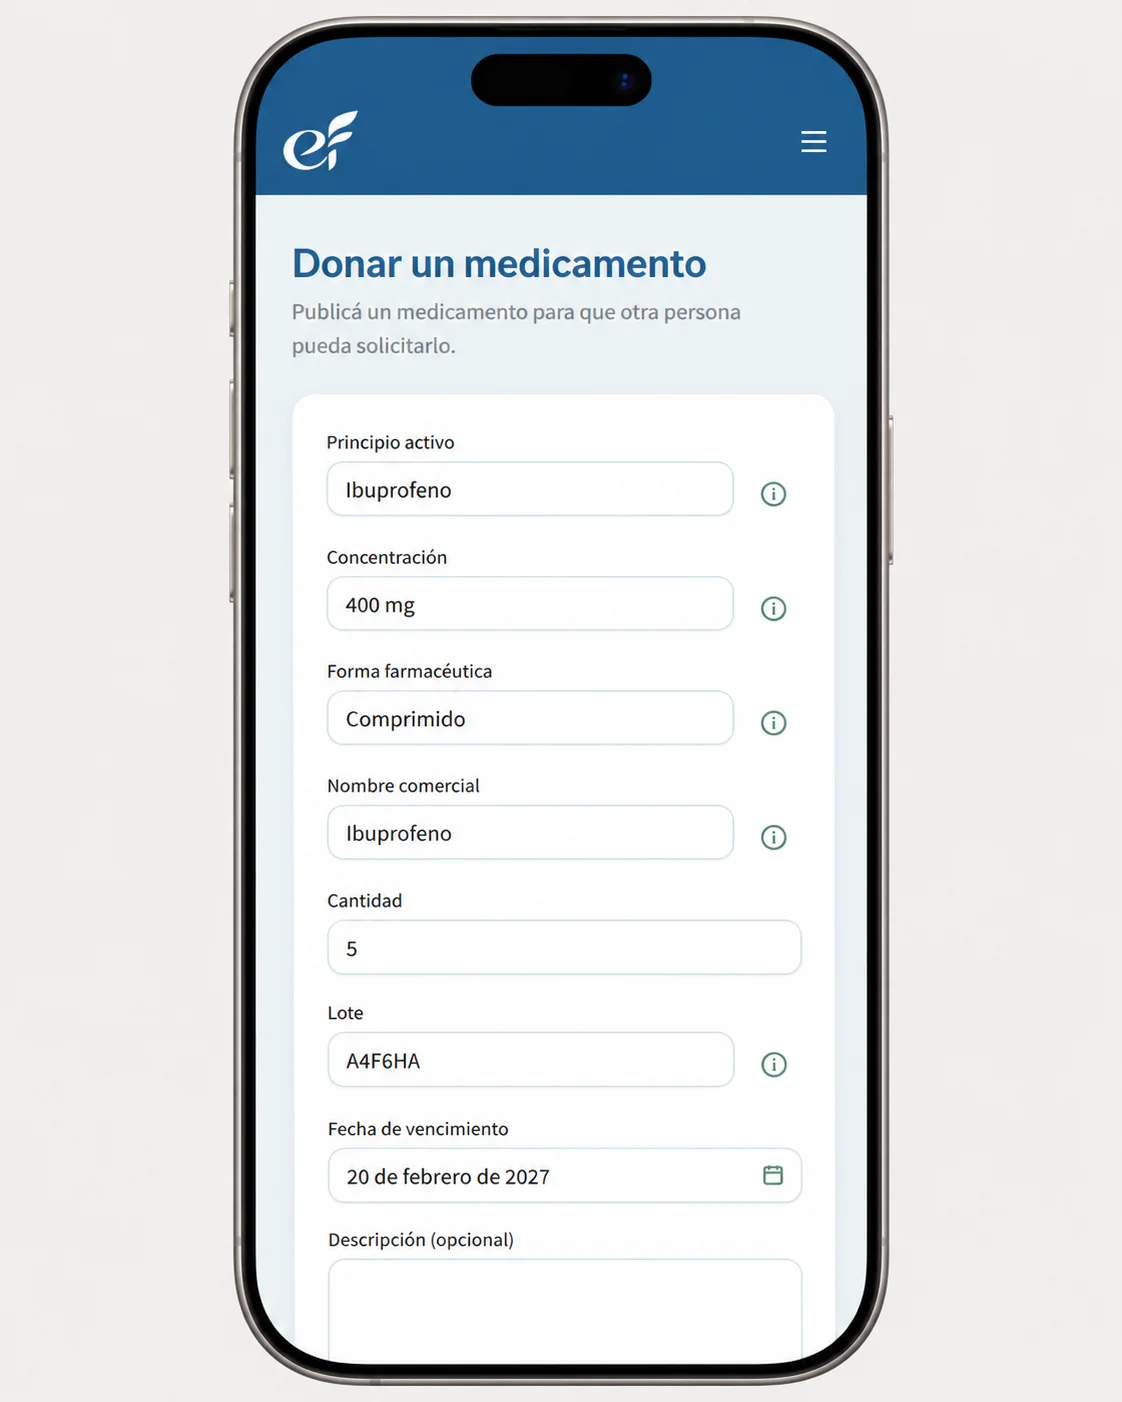
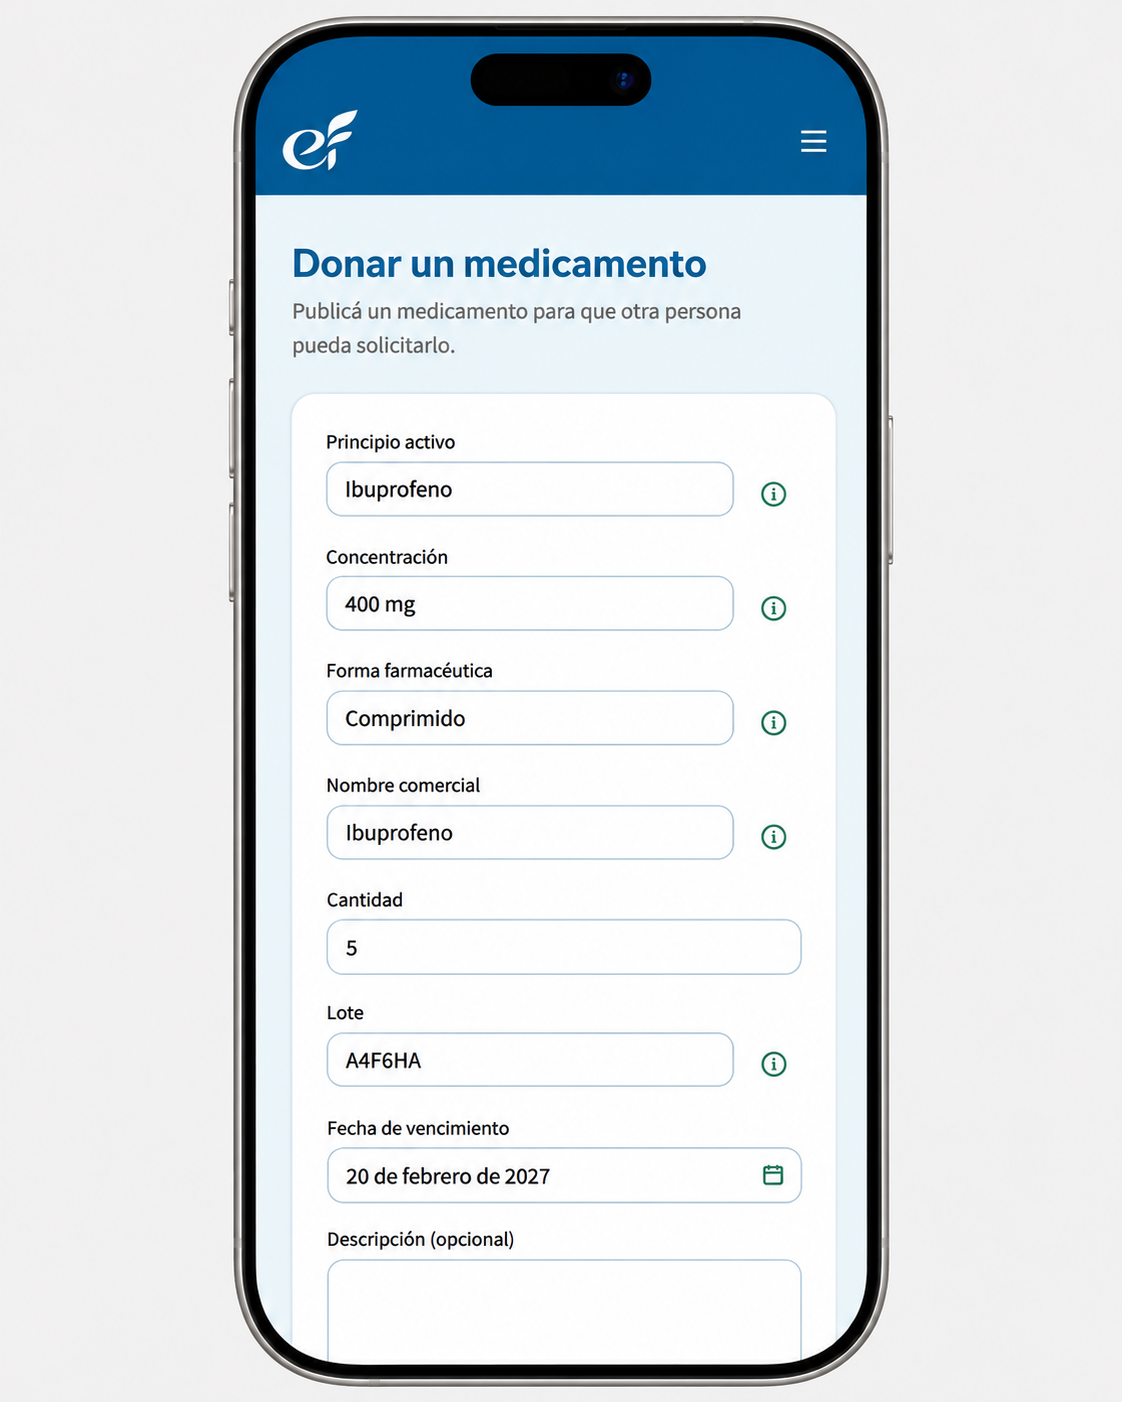
Cambios frontend landing page

diff --git a/src/components/landing/LandingFaq.vue b/src/components/landing/LandingFaq.vue
@@ -14,24 +14,24 @@ const preguntas = [
         respuesta: 'Ingresá a la sección Donar, buscá el medicamento en el vademécum, completá la información solicitada y publicá tu donación. Si requiere revisión, estará disponible una vez aprobada.',
     },
     {
+        id: 'que-donar',
+        pregunta: '¿Todos los medicamentos se pueden donar?',
+        respuesta: 'Podés publicar medicamentos en buen estado, con los datos del envase, el lote, el vencimiento y las fotos. Si coinciden con el vademécum, la publicación queda disponible. Si no, queda en revisión. ecofarma no inspecciona la unidad física.',
+    },
+    {
         id: 'solicitar',
         pregunta: '¿Cómo puedo solicitar un medicamento?',
         respuesta: 'Ingresá a la sección Recibir, explorá los medicamentos disponibles y seleccioná el que necesitás. Desde la plataforma podrás iniciar una solicitud y seguir su estado.',
     },
     {
-        id: 'que-donar',
-        pregunta: '¿Qué medicamentos puedo donar?',
-        respuesta: 'Podés publicar medicamentos en buen estado, con los datos del envase, el lote, el vencimiento y las fotos. Si coinciden con el vademécum, la publicación queda disponible. Si no, queda en revisión. ecofarma no inspecciona la unidad física.',
+        id: 'seguridad',
+        pregunta: '¿Cómo se garantiza la seguridad?',
+        respuesta: 'ecofarma contrasta la publicación con el vademécum y, si no coincide, la revisa antes de publicarla. Esa revisión mira la información declarada: no inspecciona el medicamento ni garantiza su calidad, y no reemplaza el asesoramiento de un profesional de la salud.',
     },
     {
         id: 'costo',
-        pregunta: '¿Los medicamentos tienen algún costo?',
+        pregunta: '¿Ecofarma tiene algún costo?',
         respuesta: 'ecofarma promueve la donación solidaria de medicamentos. Los medicamentos ofrecidos mediante donaciones no tienen un precio de venta.',
-    },
-    {
-        id: 'seguridad',
-        pregunta: '¿Cómo se garantiza la seguridad de las donaciones?',
-        respuesta: 'ecofarma contrasta la publicación con el vademécum y, si no coincide, la revisa antes de publicarla. Esa revisión mira la información declarada: no inspecciona el medicamento ni garantiza su calidad, y no reemplaza el asesoramiento de un profesional de la salud.',
     },
 ];
 
@@ -48,58 +48,64 @@ function alternar(id) {
 
 <template>
     <section id="preguntas" class="scroll-mt-8 bg-surface" aria-labelledby="faq-titulo">
-        <div class="mx-auto max-w-7xl px-5 py-14 sm:px-8 md:py-16">
-            <div class="text-left">
-                <h2 id="faq-titulo" class="text-2xl font-bold text-foreground">Preguntas frecuentes</h2>
-                <p class="mt-2 text-muted">
-                    Encontrá respuestas a las dudas más comunes sobre cómo donar y recibir medicamentos en ecofarma.
-                </p>
-            </div>
-            <ul class="mt-10 list-none">
-                <li
-                    v-for="pregunta in preguntas"
-                    :key="pregunta.id"
-                    class="border-b border-line first:border-t"
-                >
-                    <h3>
-                        <button
-                            :id="`faq-boton-${pregunta.id}`"
-                            type="button"
-                            class="flex min-h-12 w-full cursor-pointer items-center justify-between gap-4 py-5 text-left text-foreground transition-colors duration-200 ease-out hover:text-primary focus-visible:ring-2 focus-visible:ring-inset focus-visible:ring-primary focus-visible:outline-none motion-reduce:transition-none"
-                            :aria-expanded="estaAbierta(pregunta.id)"
-                            :aria-controls="`faq-panel-${pregunta.id}`"
-                            @click="alternar(pregunta.id)"
-                        >
-                            <span>{{ pregunta.pregunta }}</span>
-                            <Minus
-                                v-if="estaAbierta(pregunta.id)"
-                                class="size-5 shrink-0 text-primary"
-                                :stroke-width="1.75"
-                                aria-hidden="true"
-                            />
-                            <Plus
-                                v-else
-                                class="size-5 shrink-0 text-primary"
-                                :stroke-width="1.75"
-                                aria-hidden="true"
-                            />
-                        </button>
-                    </h3>
-                    <div
-                        :id="`faq-panel-${pregunta.id}`"
-                        role="region"
-                        class="grid transition-[grid-template-rows] duration-300 ease-out motion-reduce:transition-none"
-                        :class="estaAbierta(pregunta.id) ? 'grid-rows-[1fr]' : 'grid-rows-[0fr]'"
-                        :aria-labelledby="`faq-boton-${pregunta.id}`"
-                        :aria-hidden="!estaAbierta(pregunta.id)"
-                        :inert="!estaAbierta(pregunta.id)"
+        <div class="mx-auto max-w-7xl px-5 py-14 sm:px-8 md:py-16 lg:py-20">
+            <div class="grid gap-10 md:grid-cols-2 md:items-center md:gap-12 lg:gap-16">
+                <div class="relative max-w-md">
+                    <h2 id="faq-titulo" class="font-heading text-3xl leading-tight text-balance sm:text-[2.5rem] sm:leading-[1.15]">
+                        <span class="text-foreground">¿Tenés dudas?</span>
+                        <span class="mt-1 block text-icon">Estamos para ayudarte.</span>
+                    </h2>
+                    <p class="mt-5 max-w-sm text-pretty text-muted">
+                        Conocé mejor nuestra propuesta y cómo buscamos facilitar una donación responsable y segura.
+                    </p>
+                </div>
+
+                <ul class="list-none">
+                    <li
+                        v-for="pregunta in preguntas"
+                        :key="pregunta.id"
+                        class="border-b border-line first:border-t"
                     >
-                        <div class="overflow-hidden">
-                            <p class="pb-5 text-muted">{{ pregunta.respuesta }}</p>
+                        <h3>
+                            <button
+                                :id="`faq-boton-${pregunta.id}`"
+                                type="button"
+                                class="flex min-h-12 w-full cursor-pointer items-center justify-between gap-4 py-5 text-left font-heading text-base font-bold text-foreground transition-colors duration-200 ease-out hover:text-primary focus-visible:ring-2 focus-visible:ring-inset focus-visible:ring-primary focus-visible:outline-none motion-reduce:transition-none sm:text-lg"
+                                :aria-expanded="estaAbierta(pregunta.id)"
+                                :aria-controls="`faq-panel-${pregunta.id}`"
+                                @click="alternar(pregunta.id)"
+                            >
+                                <span>{{ pregunta.pregunta }}</span>
+                                <Minus
+                                    v-if="estaAbierta(pregunta.id)"
+                                    class="size-5 shrink-0 text-foreground"
+                                    :stroke-width="1.75"
+                                    aria-hidden="true"
+                                />
+                                <Plus
+                                    v-else
+                                    class="size-5 shrink-0 text-foreground"
+                                    :stroke-width="1.75"
+                                    aria-hidden="true"
+                                />
+                            </button>
+                        </h3>
+                        <div
+                            :id="`faq-panel-${pregunta.id}`"
+                            role="region"
+                            class="grid transition-[grid-template-rows] duration-300 ease-out motion-reduce:transition-none"
+                            :class="estaAbierta(pregunta.id) ? 'grid-rows-[1fr]' : 'grid-rows-[0fr]'"
+                            :aria-labelledby="`faq-boton-${pregunta.id}`"
+                            :aria-hidden="!estaAbierta(pregunta.id)"
+                            :inert="!estaAbierta(pregunta.id)"
+                        >
+                            <div class="overflow-hidden">
+                                <p class="pb-5 text-muted">{{ pregunta.respuesta }}</p>
+                            </div>
                         </div>
-                    </div>
-                </li>
-            </ul>
+                    </li>
+                </ul>
+            </div>
         </div>
     </section>
 </template>

diff --git a/src/components/landing/LandingImpacto.vue b/src/components/landing/LandingImpacto.vue
@@ -21,19 +21,16 @@ const ejes = [
 <template>
     <section class="relative overflow-hidden bg-primary text-surface" aria-labelledby="impacto-titulo">
         <div
-            class="pointer-events-none absolute -top-8 -left-8 size-56 bg-[url('/trama-web.webp')] bg-cover bg-center opacity-25 sm:size-72 md:size-96"
+            class="pointer-events-none absolute -top-[8%] -left-[18%] h-[32%] w-[48%] -rotate-[18deg] bg-[url('/patron-hojas.png')] bg-repeat bg-[length:180px_auto] opacity-[0.12] mix-blend-screen sm:bg-[length:220px_auto] md:-top-[6%] md:-left-[8%] md:h-[28%] md:w-[38%] md:bg-[length:260px_auto]"
             aria-hidden="true"
         ></div>
         <div
-            class="pointer-events-none absolute -right-10 -bottom-10 size-56 bg-[url('/trama-web.webp')] bg-cover bg-center opacity-25 sm:size-72 md:size-96"
+            class="pointer-events-none absolute -right-[18%] -bottom-[8%] h-[32%] w-[48%] -rotate-[18deg] bg-[url('/patron-hojas.png')] bg-repeat bg-[length:180px_auto] opacity-[0.12] mix-blend-screen sm:bg-[length:220px_auto] md:-right-[8%] md:-bottom-[6%] md:h-[28%] md:w-[38%] md:bg-[length:260px_auto]"
             aria-hidden="true"
         ></div>
 
         <div class="relative mx-auto max-w-7xl px-5 py-14 text-center sm:px-8 md:py-20">
-            <p class="font-sans text-xs font-semibold tracking-[0.14em] text-surface/75 uppercase">
-                03 / Nuestro impacto
-            </p>
-            <h2 id="impacto-titulo" class="mx-auto mt-4 max-w-3xl font-heading text-2xl text-balance text-surface sm:text-3xl md:text-[2.5rem] md:leading-tight">
+            <h2 id="impacto-titulo" class="mx-auto max-w-3xl font-heading text-2xl text-balance text-surface sm:text-3xl md:text-[2.5rem] md:leading-tight">
                 Cada medicamento cuenta.<br class="hidden sm:block">
                 Cada acción transforma.
             </h2>
@@ -41,14 +38,14 @@ const ejes = [
                 Queremos que cada donación responsable genere un beneficio real: más acceso a la salud, menos desperdicio y una comunidad que se acompaña.
             </p>
 
-            <ul class="mt-12 grid list-none gap-10 sm:mt-14 md:mt-16 md:grid-cols-3 md:gap-8 lg:gap-12">
+            <ul class="mx-auto mt-12 grid max-w-3xl list-none gap-10 sm:mt-14 md:mt-16 md:max-w-4xl md:grid-cols-3 md:gap-6 lg:gap-8">
                 <li
                     v-for="eje in ejes"
                     :key="eje.numero"
                     class="mx-auto flex w-full max-w-xs flex-col items-center md:max-w-none md:items-start md:text-left"
                 >
-                    <span class="mb-5 block h-px w-14 bg-surface/45" aria-hidden="true"></span>
-                    <p class="font-heading text-4xl font-bold tracking-tight text-surface/95 sm:text-5xl">
+                    <span class="mb-5 block h-px w-[85%] bg-surface/45" aria-hidden="true"></span>
+                    <p class="font-heading text-4xl font-normal tracking-tighter text-surface/95 sm:text-5xl">
                         {{ eje.numero }}
                     </p>
                     <h3 class="mt-4 font-heading text-lg text-surface">{{ eje.titulo }}</h3>
